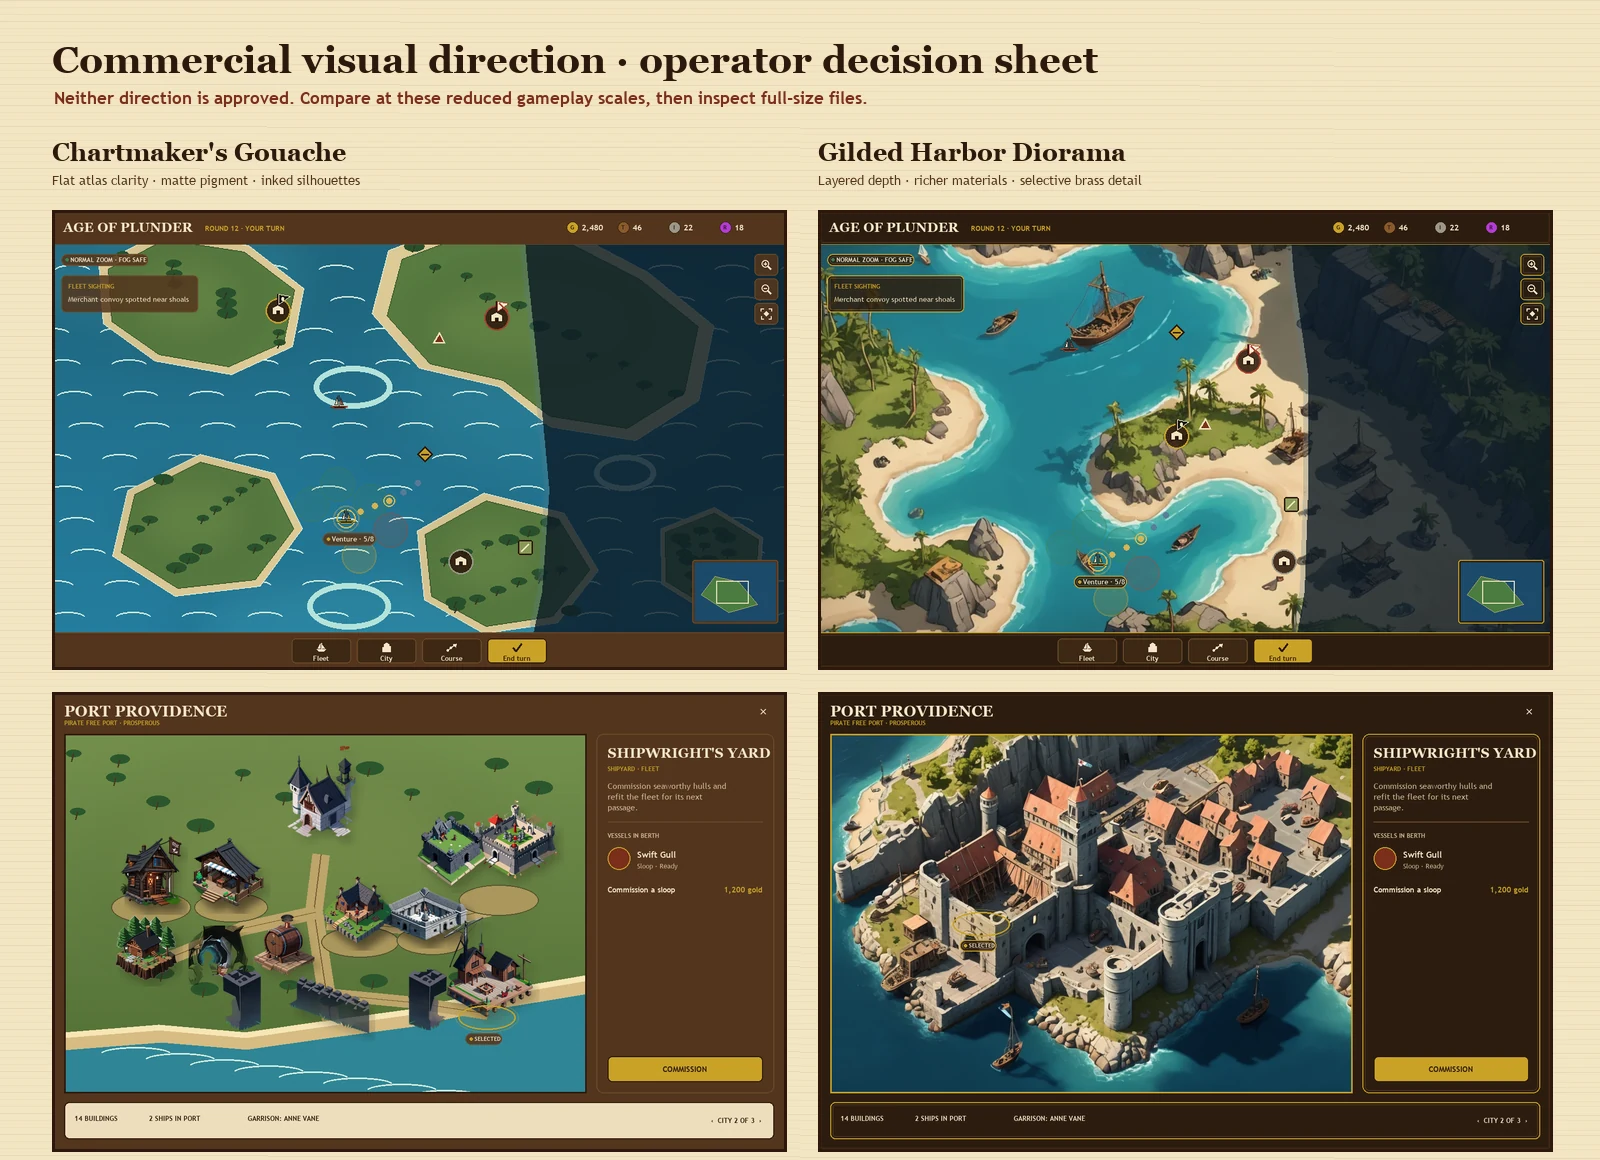
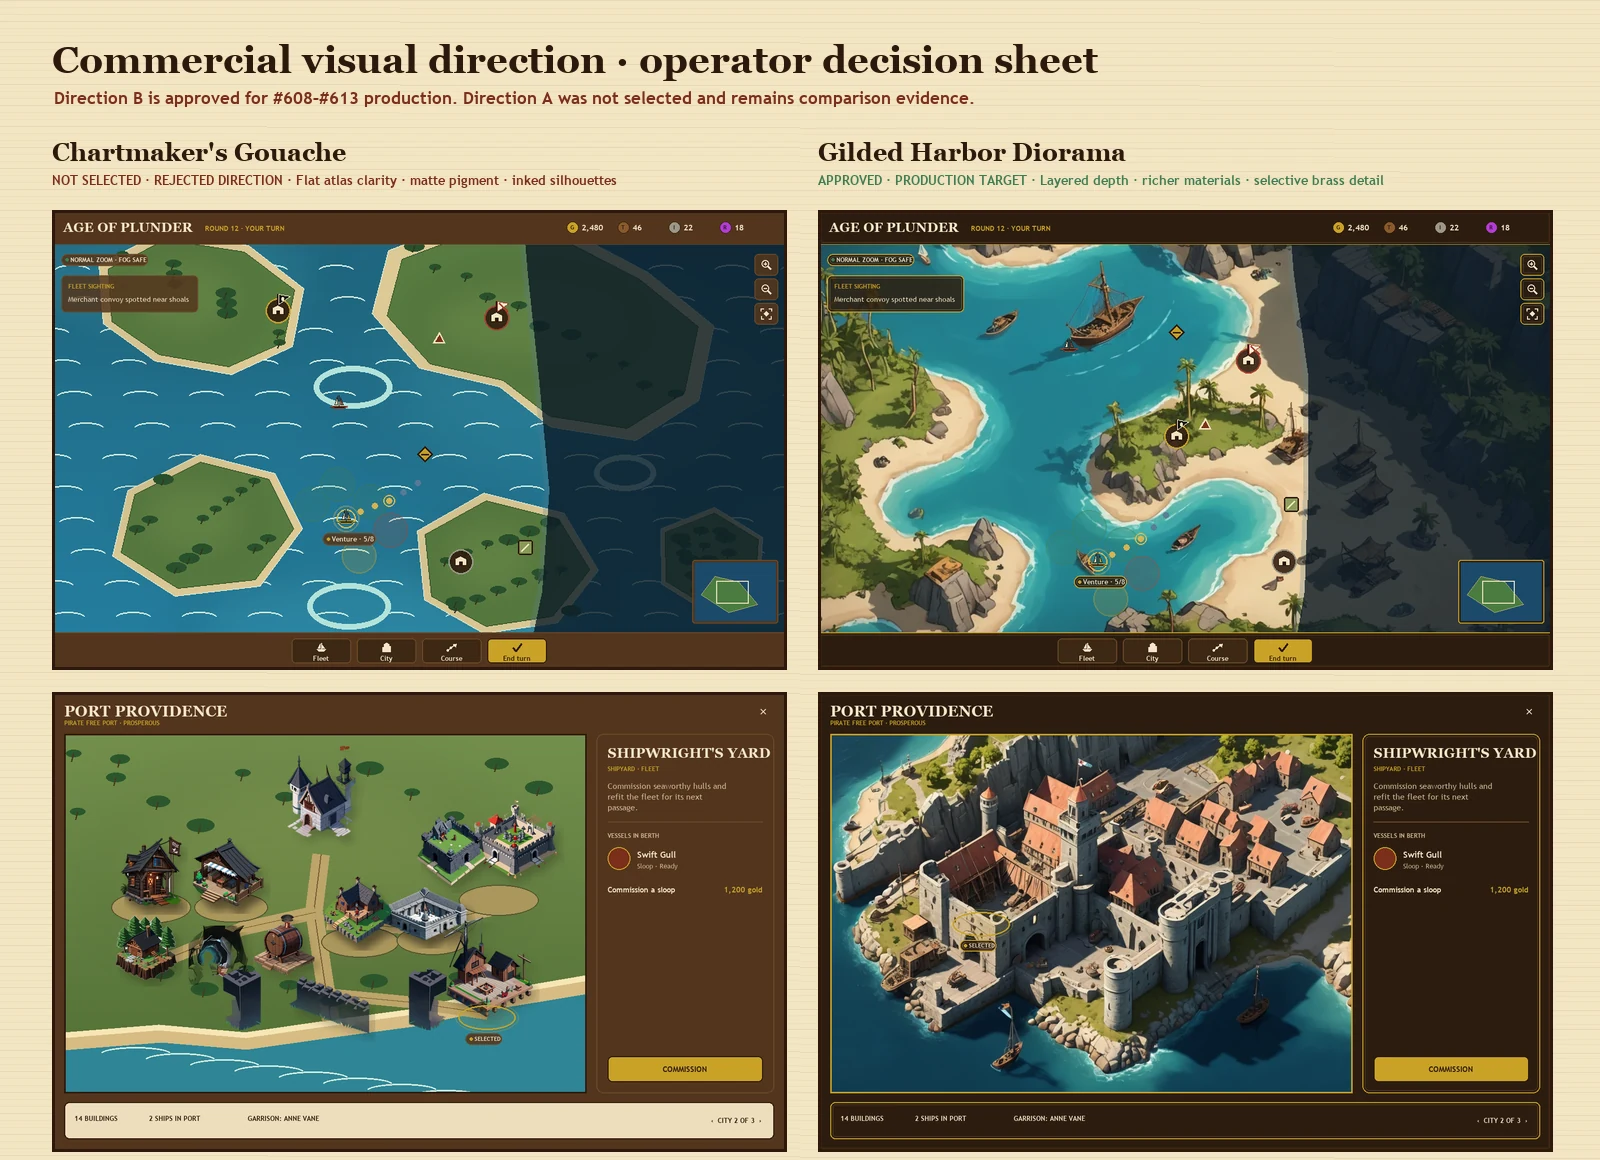
docs: mark approved visual direction

diff --git a/docs/art/commercial-visual-v2/tools/compose_styleframes.py b/docs/art/commercial-visual-v2/tools/compose_styleframes.py
@@ -77,6 +77,15 @@ DIRECTIONS = {
     ),
 }
 
+COMPARISON_DECISION_LINE = (
+    "Direction B is approved for #608–#613 production. "
+    "Direction A was not selected and remains comparison evidence."
+)
+COMPARISON_DIRECTION_STATUS = {
+    "a": "NOT SELECTED · REJECTED DIRECTION",
+    "b": "APPROVED · PRODUCTION TARGET",
+}
+
 
 MAP_SOURCE_SIZE = (1024, 704)
 MAP_VIEWPORTS = {
@@ -1363,11 +1372,19 @@ def comparison_sheet() -> Image.Image:
     image = paper_texture((1600, 1160), light=True).convert("RGBA")
     draw = ImageDraw.Draw(image, "RGBA")
     text(draw, (52, 38), "Commercial visual direction · operator decision sheet", 38, fill=INK, display=True)
-    text(draw, (54, 88), "Neither direction is approved. Compare at these reduced gameplay scales, then inspect full-size files.", 17, fill=RUST, bold=True)
+    text(draw, (54, 88), COMPARISON_DECISION_LINE, 17, fill=RUST, bold=True)
     for i, direction in enumerate(DIRECTIONS.values()):
         x = 52 + i * 766
         text(draw, (x, 138), direction.short_name, 25, fill=INK, display=True)
-        text(draw, (x, 172), direction.subtitle, 13, fill=INK_SOFT)
+        status_color = RUST if direction.id == "a" else SUCCESS
+        text(
+            draw,
+            (x, 172),
+            f"{COMPARISON_DIRECTION_STATUS[direction.id]} · {direction.subtitle}",
+            13,
+            fill=status_color,
+            bold=True,
+        )
         map_frame = compose_map_desktop(direction).resize((734, 459), Image.Resampling.LANCZOS)
         city_frame = compose_city_desktop(direction).resize((734, 459), Image.Resampling.LANCZOS)
         image.paste(map_frame.convert("RGB"), (x, 210))

diff --git a/docs/art/commercial-visual-v2/tools/validate_package.py b/docs/art/commercial-visual-v2/tools/validate_package.py
@@ -105,6 +105,17 @@ def main() -> None:
     present = [name for name, glyph in forbidden_glyphs.items() if glyph in compositor]
     if present:
         raise AssertionError(f"font-dependent chrome glyphs remain: {', '.join(present)}")
+    stale_decision_copy = " ".join(("Neither", "direction", "is", "approved"))
+    if stale_decision_copy in compositor:
+        raise AssertionError("comparison proof still contains the pre-approval decision state")
+    approval_copy = (
+        "Direction B is approved for #608–#613 production.",
+        "NOT SELECTED · REJECTED DIRECTION",
+        "APPROVED · PRODUCTION TARGET",
+    )
+    missing_copy = [marker for marker in approval_copy if marker not in compositor]
+    if missing_copy:
+        raise AssertionError(f"comparison proof is missing approved-state copy: {missing_copy}")
     required_icons = {"fleet", "city", "course", "zoom_in", "zoom_out", "overview", "end_turn"}
     missing = [name for name in sorted(required_icons) if f'"{name}"' not in compositor]
     if missing:
